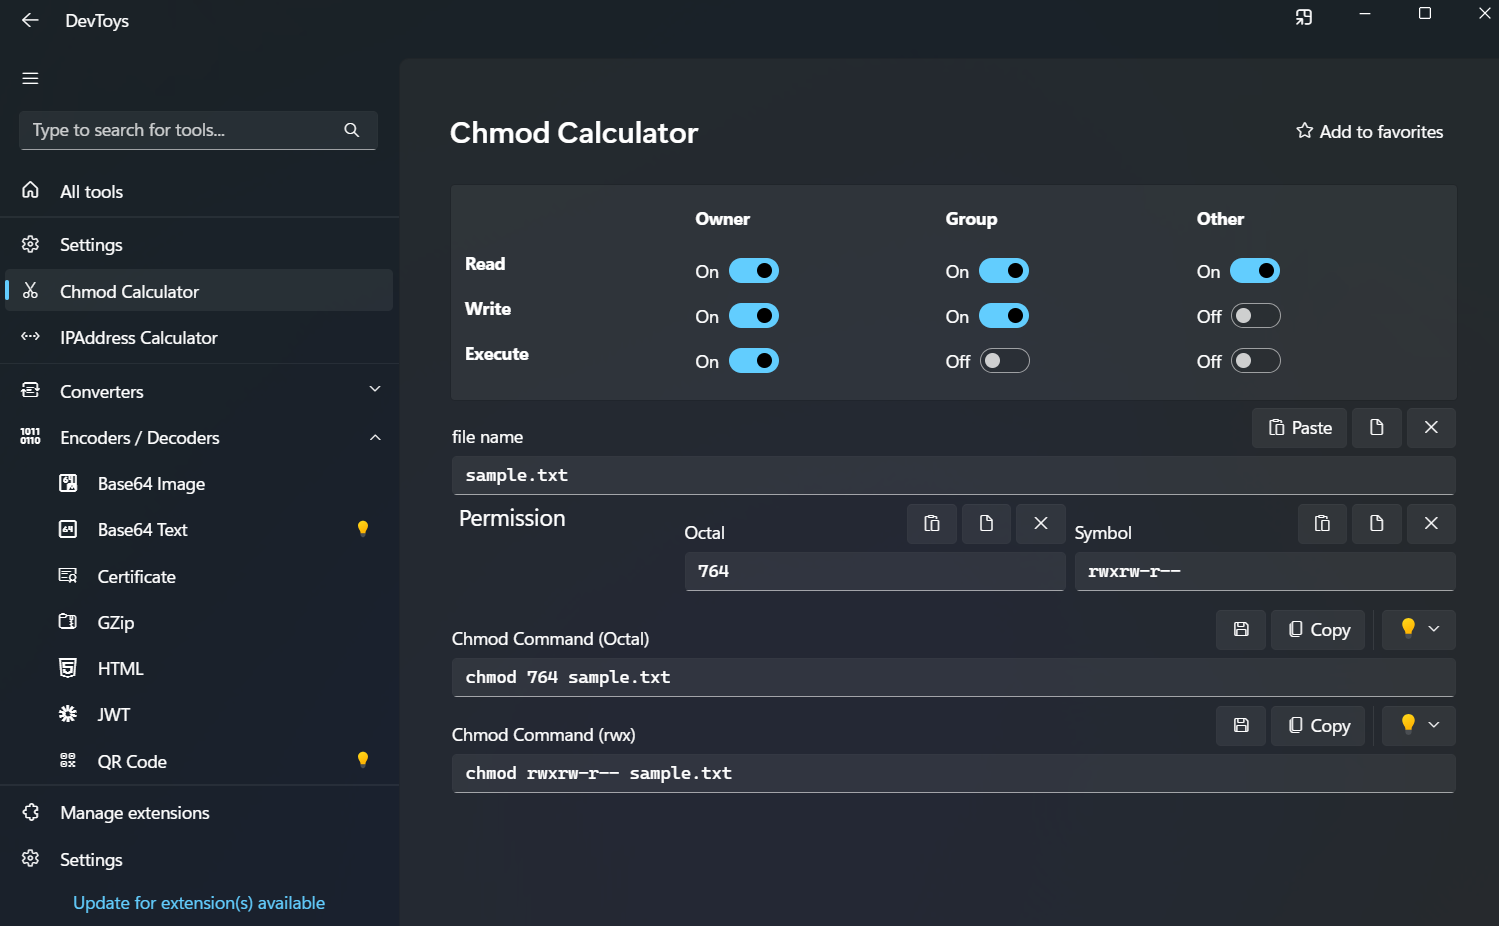
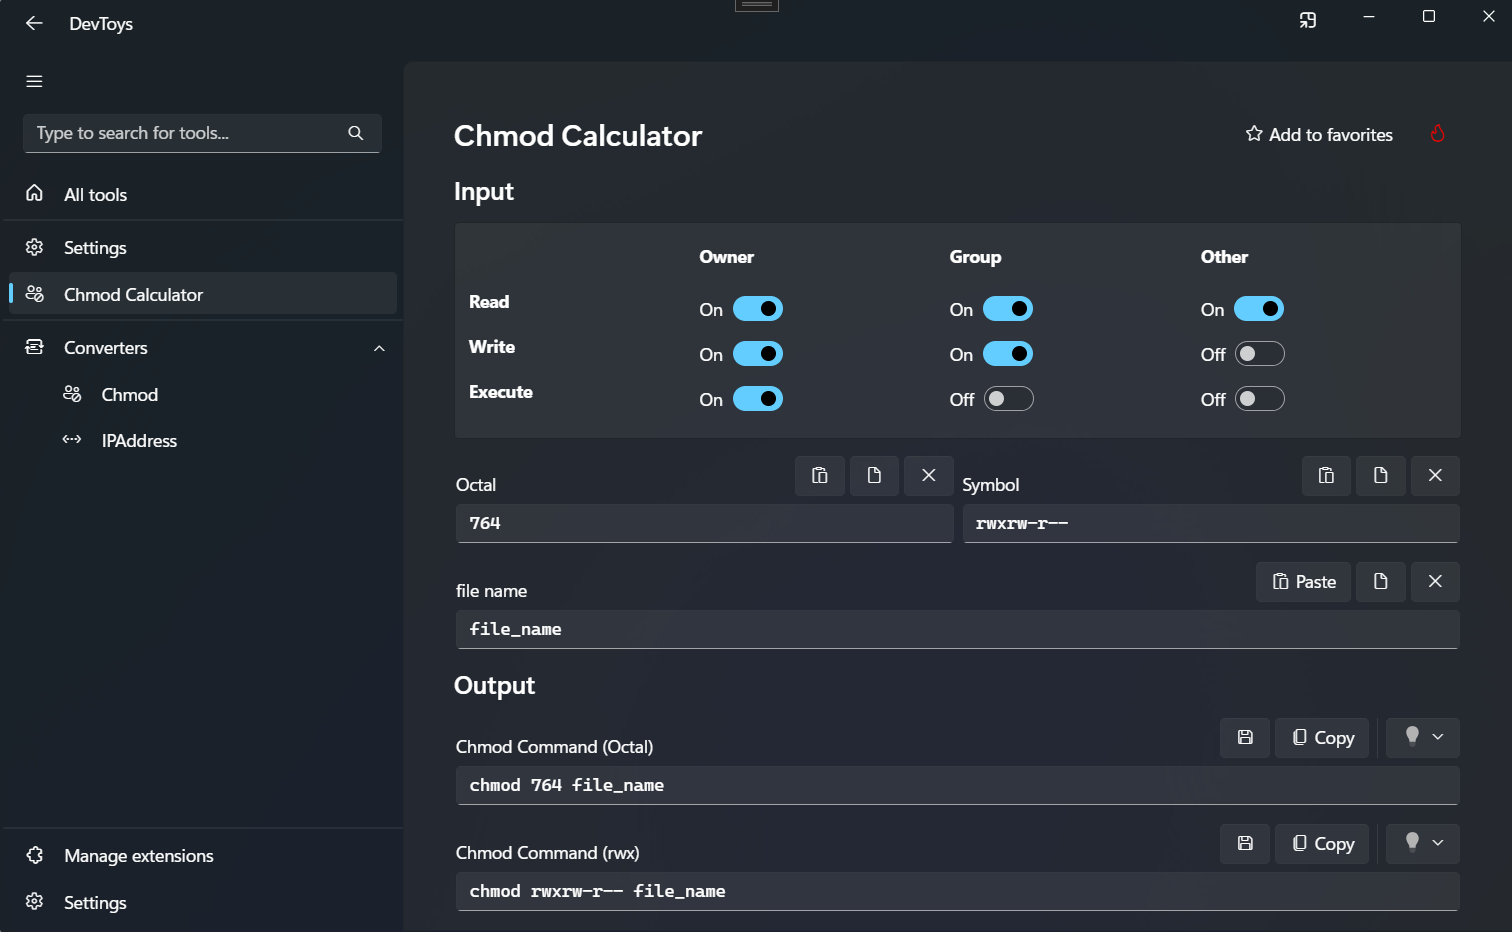
Updated version to 1.1.0

diff --git a/README.md b/README.md
@@ -5,7 +5,7 @@ This package is an extension for [DevToys 2.0](https://devtoys.app/).
 
 DevToys.ExtensionKit provides additional developer tools for the DevToys application.
 
-![preview](./assets/preview.png)
+![preview](https://raw.githubusercontent.com/yui10/DevToys.ExtensionKit/main/assets/preview.png?raw=true)
 
 ## Features
 
@@ -29,6 +29,9 @@ Issues and feedback are welcome in the [Issues section of the GitHub repository]
 Pull requests are also welcome.
 
 ## Release Notes
+[1.1.0]
+- Improved the output of the network partitioning function in the IP Address Parser Tool.
+- Fixed ChmodCalculator UI to be easier to read.
 [1.0.1]
 - Bug fixes
 - Updated documentation
